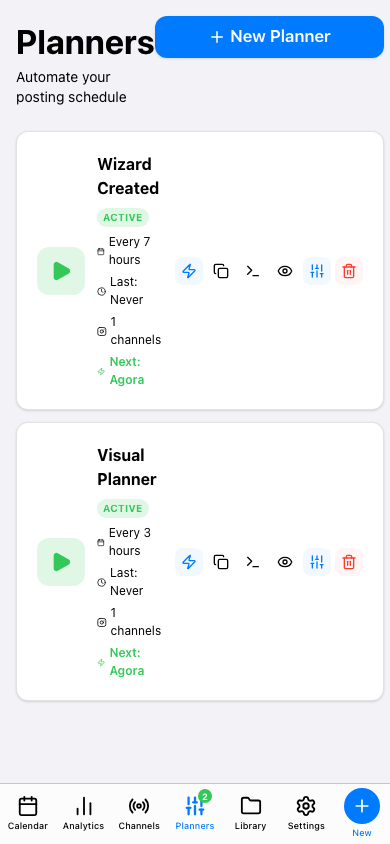
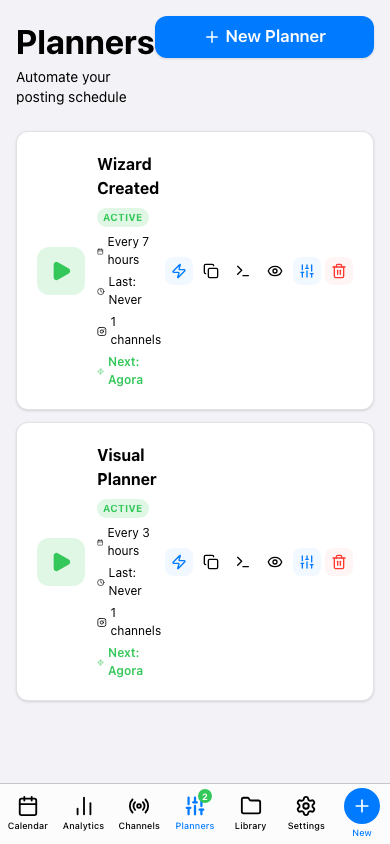
test(gauntlet): fix PL8 harness — capture wizard-created count before browser.close()

diff --git a/gauntlet-runs/module-03-planners/gates/round-063156-baseline.md b/gauntlet-runs/module-03-planners/gates/round-063156-baseline.md
@@ -1,0 +1,54 @@
+# Planners baseline — 2026-08-16T09:31:56Z
+
+Mode: prod | Commit: 66adae3
+Evidence dir: /var/folders/28/xppyht0s0w9cmfv134s0zxcm0000gn/T//planner-gauntlet.Af2dMo
+
+## PL8 (visual — wizard)
+
+```
+  (c) after Finish: modalOpen=false saveError=0 consoleErrors=0
+SCENARIO PL8: FAIL — consoleErrors=0 pageErrors=0 created=true edited=7h validation=true/true badAbsent=true mobileHScroll=0px
+```
+
+## PL7 (fix-planners + cron)
+
+```
+SCENARIO PL7: PASS — dry=200/flagged=true fix=200/count=1 fixedStatus=active/configObject=true tick=200/posts=1/lastRun=true unmatched=0 refreshLines=0 crashes=0
+SCENARIO PL8-API: PASS — wizard default payload (start_time:"") → HTTP 200 accepted — pre-fix this FAILS: the wizard cannot save without an explicit start time
+
+=== SUMMARY (scenarios) ===
+PL7: PASS — dry=200/flagged=true fix=200/count=1 fixedStatus=active/configObject=true tick=200/posts=1/lastRun=true unmatched=0 refreshLines=0 crashes=0
+PL8-API: PASS — wizard default payload (start_time:"") → HTTP 200 accepted — pre-fix this FAILS: the wizard cannot save without an explicit start time
+```
+
+## PL1-PL6 (direct)
+
+```
+SCENARIO PL1: PASS — ok=1 already_running=1 posts=2 lastRunAdvanced=true (r1=ok, r2=already_running)
+SCENARIO PL2: PASS — due:not_due/0→true/1 start:start_time/0→true/1 sleep:sleep/0→true/1
+SCENARIO PL3: PASS — arr=invalid_config freq0=invalid_config noCh=no_channels res=resolution_failed tpl=ok/caption="Hello  and " (unknown vars → "", no literal leak)
+SCENARIO PL4: PASS — idx2→"C-third"(state 3) idx3(exhausted)→"A-first"(state 4, WRAP documented) 2ch→["B-second","C-third"](state 3)
+SCENARIO PL5: PASS — ok created=1 channels=[pl5-ok] template_index=1 allBlocked=no_publishable_channels
+SCENARIO PL6: PASS — fail=true/reverted=true/postsAfter=0 nextRun=ok/postsFinal=1
+
+=== SUMMARY (direct) ===
+PL1: PASS — ok=1 already_running=1 posts=2 lastRunAdvanced=true (r1=ok, r2=already_running)
+PL2: PASS — due:not_due/0→true/1 start:start_time/0→true/1 sleep:sleep/0→true/1
+PL3: PASS — arr=invalid_config freq0=invalid_config noCh=no_channels res=resolution_failed tpl=ok/caption="Hello  and " (unknown vars → "", no literal leak)
+PL4: PASS — idx2→"C-third"(state 3) idx3(exhausted)→"A-first"(state 4, WRAP documented) 2ch→["B-second","C-third"](state 3)
+PL5: PASS — ok created=1 channels=[pl5-ok] template_index=1 allBlocked=no_publishable_channels
+PL6: PASS — fail=true/reverted=true/postsAfter=0 nextRun=ok/postsFinal=1
+```
+
+## server.log greps
+
+- ENOENT: 0
+- Unhandled/TypeError: 0
+- '[api-error]' lines: 0
+- 'UNMATCHED_MOCK' (accidental real-IG calls): 0
+- '[ChannelRefresh]' lines: 0
+
+## server.log (matching error lines, first 60)
+
+```
+```
